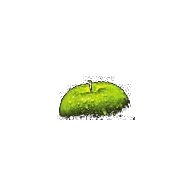
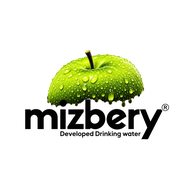
Add files via upload

Changed region(s): [[0.125, 0.25, 0.9062, 0.75]]

diff --git a/sw.js b/sw.js
@@ -1,1 +1,23 @@
-const CACHE="mizbery-v8";const ASSETS=["./", "./index.html", "./css/styles.css", "./js/app.js", "./js/config.js", "./manifest.webmanifest", "./assets/mizbery-apple.png", "./assets/social-preview.jpg", "./assets/mizbery-trio-cutout.webp", "./assets/mizbery-hero.webp", "./assets/mizbery-logo-theme-light.png", "./assets/mizbery-packed-cutout.webp", "./assets/mizbery-bottle-cutout.webp", "./assets/mizbery-logo-theme-dark.png", "./icons/icon-192.png", "./icons/icon-512.png"];self.addEventListener("install",e=>{e.waitUntil(caches.open(CACHE).then(c=>c.addAll(ASSETS)));self.skipWaiting()});self.addEventListener("activate",e=>{e.waitUntil(caches.keys().then(keys=>Promise.all(keys.filter(k=>k!==CACHE).map(k=>caches.delete(k)))));self.clients.claim()});self.addEventListener("fetch",e=>{if(e.request.method!=="GET"||new URL(e.request.url).origin!==self.location.origin)return;e.respondWith(fetch(e.request).then(r=>{if(r.ok){const copy=r.clone();caches.open(CACHE).then(c=>c.put(e.request,copy))}return r}).catch(()=>caches.match(e.request)))})
+const CACHE = 'mizbery-static-v9';
+const ASSETS = [
+  "./",
+  "./index.html",
+  "./css/styles.css",
+  "./js/app.js",
+  "./js/config.js",
+  "./manifest.webmanifest",
+  "./assets/mizbery-apple.png",
+  "./assets/social-preview.jpg",
+  "./assets/mizbery-trio-cutout.webp",
+  "./assets/mizbery-hero.webp",
+  "./assets/mizbery-logo-theme-light.png",
+  "./assets/icon-512.png",
+  "./assets/icon-maskable-512.png",
+  "./assets/icon-192.png",
+  "./assets/mizbery-packed-cutout.webp",
+  "./assets/mizbery-bottle-cutout.webp",
+  "./assets/mizbery-logo-theme-dark.png"
+];
+self.addEventListener('install', event => {event.waitUntil(caches.open(CACHE).then(c => c.addAll(ASSETS)).then(() => self.skipWaiting()));});
+self.addEventListener('activate',event => {event.waitUntil(caches.keys().then(keys=>Promise.all(keys.filter(k=>k!==CACHE).map(k=>caches.delete(k)))).then(()=>self.clients.claim()));});
+self.addEventListener('fetch',event=>{const req=event.request;if(req.method!=='GET'||new URL(req.url).origin!==self.location.origin)return;event.respondWith(fetch(req).then(resp=>{if(resp.ok){const copy=resp.clone();caches.open(CACHE).then(c=>c.put(req,copy));}return resp;}).catch(()=>caches.match(req).then(cached=>cached||caches.match('./index.html'))));});

diff --git a/index.html b/index.html
@@ -9,9 +9,11 @@
   <meta property="og:title" content="Mizbery® — Refreshment, made simple.">
   <meta property="og:description" content="Packaged drinking water for every moment. Explore our range and get in touch for wholesale enquiries.">
   <meta property="og:image" content="assets/social-preview.jpg">
-  <link rel="manifest" href="manifest.webmanifest">
+  <link rel="manifest" href="manifest.webmanifest?v=9">
   <meta name="apple-mobile-web-app-capable" content="yes">
-  <link rel="apple-touch-icon" href="icons/icon-192.png">
+  <meta name="apple-mobile-web-app-status-bar-style" content="default">
+  <meta name="apple-mobile-web-app-title" content="Mizbery">
+  <link rel="apple-touch-icon" href="assets/icon-192.png?v=9">
   <link rel="icon" href="assets/mizbery-apple.png" type="image/png">
   <link rel="preconnect" href="https://fonts.googleapis.com">
   <link rel="preconnect" href="https://fonts.gstatic.com" crossorigin>
@@ -186,6 +188,6 @@
   <footer class="footer"><div class="container footer-main"><div><a href="#top" class="footer-brand" aria-label="Mizbery top"><img class="footer-logo brand-light" src="assets/mizbery-logo-theme-light.png" alt="Mizbery" width="126" height="80"><img class="footer-logo brand-dark" src="assets/mizbery-logo-theme-dark.png" alt="" aria-hidden="true" width="126" height="80"></a><p>Refreshment, made simple.</p></div><a href="#top" class="back-to-top">BACK TO TOP <span aria-hidden="true">↑</span></a></div><div class="container footer-bottom"><span>© <span id="year"></span> Mizbery. All rights reserved.</span><span>PACKAGED DRINKING WATER</span><span>FRESHNESS FOR EVERY OCCASION.</span></div></footer>
   <script src="js/config.js"></script>
   <script src="js/app.js"></script>
-<script>if("serviceWorker" in navigator && location.protocol !== "file:"){window.addEventListener("load",()=>navigator.serviceWorker.register("./sw.js").catch(()=>{}));}</script>
+<script>if ("serviceWorker" in navigator && (location.protocol === "https:" || location.hostname === "localhost" || location.hostname === "127.0.0.1")) { window.addEventListener("load", () => navigator.serviceWorker.register("./sw.js").catch(() => {})); }</script>
 </body>
 </html>

diff --git a/css/styles.css b/css/styles.css
@@ -76,5 +76,5 @@ h1,h2,h3,p{margin-top:0}h1,h2,h3{font-family:Manrope,'DM Sans',sans-serif;letter
 .product-card-packed:hover .packed-product-image{transform:translateY(-6px)}
 @media(max-width:620px){.product-art-wrapped{inset:16px 8px 14px}}
 
-/* Compact brand mark */
-.brand{width:116px!important;height:68px!important}.brand-image{width:103px!important;max-height:66px!important}.footer-brand{width:110px!important;height:72px!important}.footer-logo{width:110px!important;max-height:72px!important}
+/* v9: slightly smaller Mizbery header and footer logo */
+.brand{width:116px!important;height:70px!important}.brand-image{width:105px!important;max-height:67px!important}.footer-brand{width:110px!important;height:72px!important}.footer-logo{width:108px!important;max-height:70px!important}@media(max-width:800px){.brand{height:66px!important}.brand-image{width:100px!important}}

diff --git a/README.md b/README.md
@@ -42,3 +42,9 @@ When WhatsApp is configured, the enquiry opens WhatsApp with the message prepare
 
 
 Version 7: packed-water product updated with transparent-background product image, default theme follows OS, manual theme changes saved.
+
+
+## Install as an app (PWA)
+Deploy the folder on HTTPS (such as Cloudflare Pages). Open the site in Chrome or Edge and use the browser Install app option. On Android use Install app/Add to Home screen; on iPhone Safari use Share > Add to Home Screen. Opening index.html directly from Downloads (file://) cannot register a service worker and is not sufficient for normal PWA installation. The app caches its static assets for offline viewing; sending enquiries still requires internet access and a configured contact method.
+
+Version 9: new full Mizbery logo on white install icon, reduced header/footer logo, cache version bumped to v9. Deploy over HTTPS and refresh/reinstall to see icon changes.
